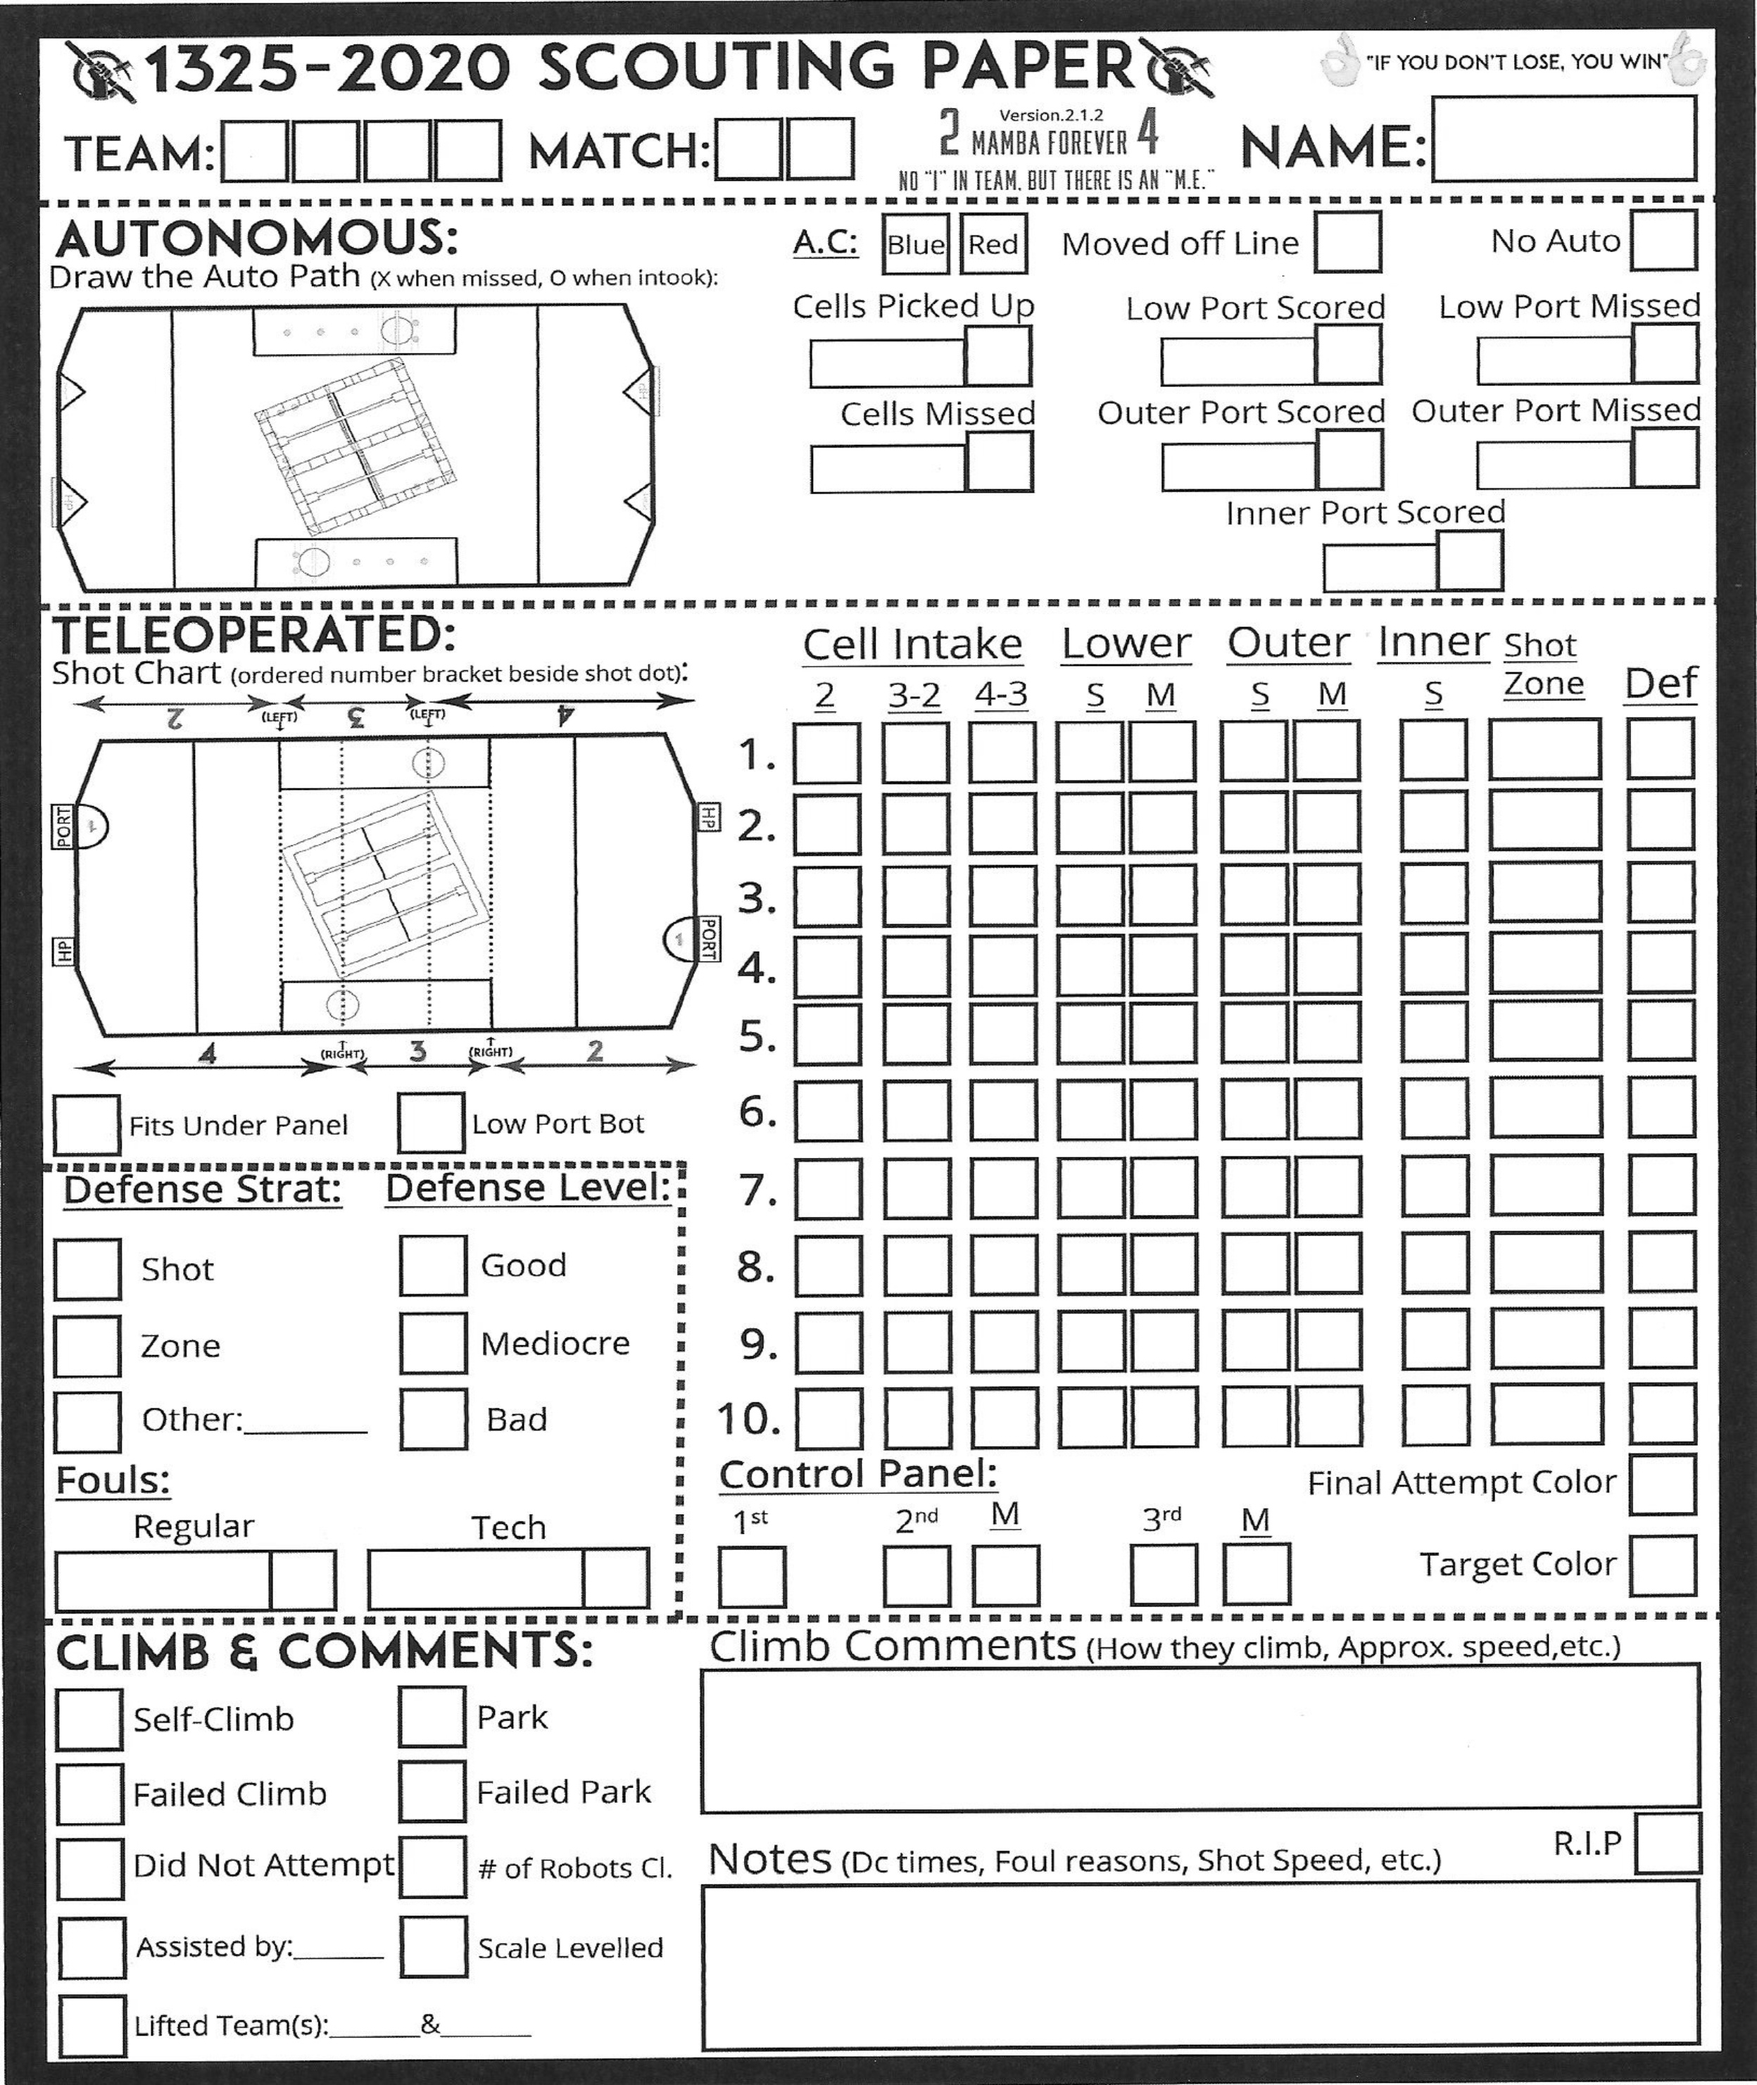
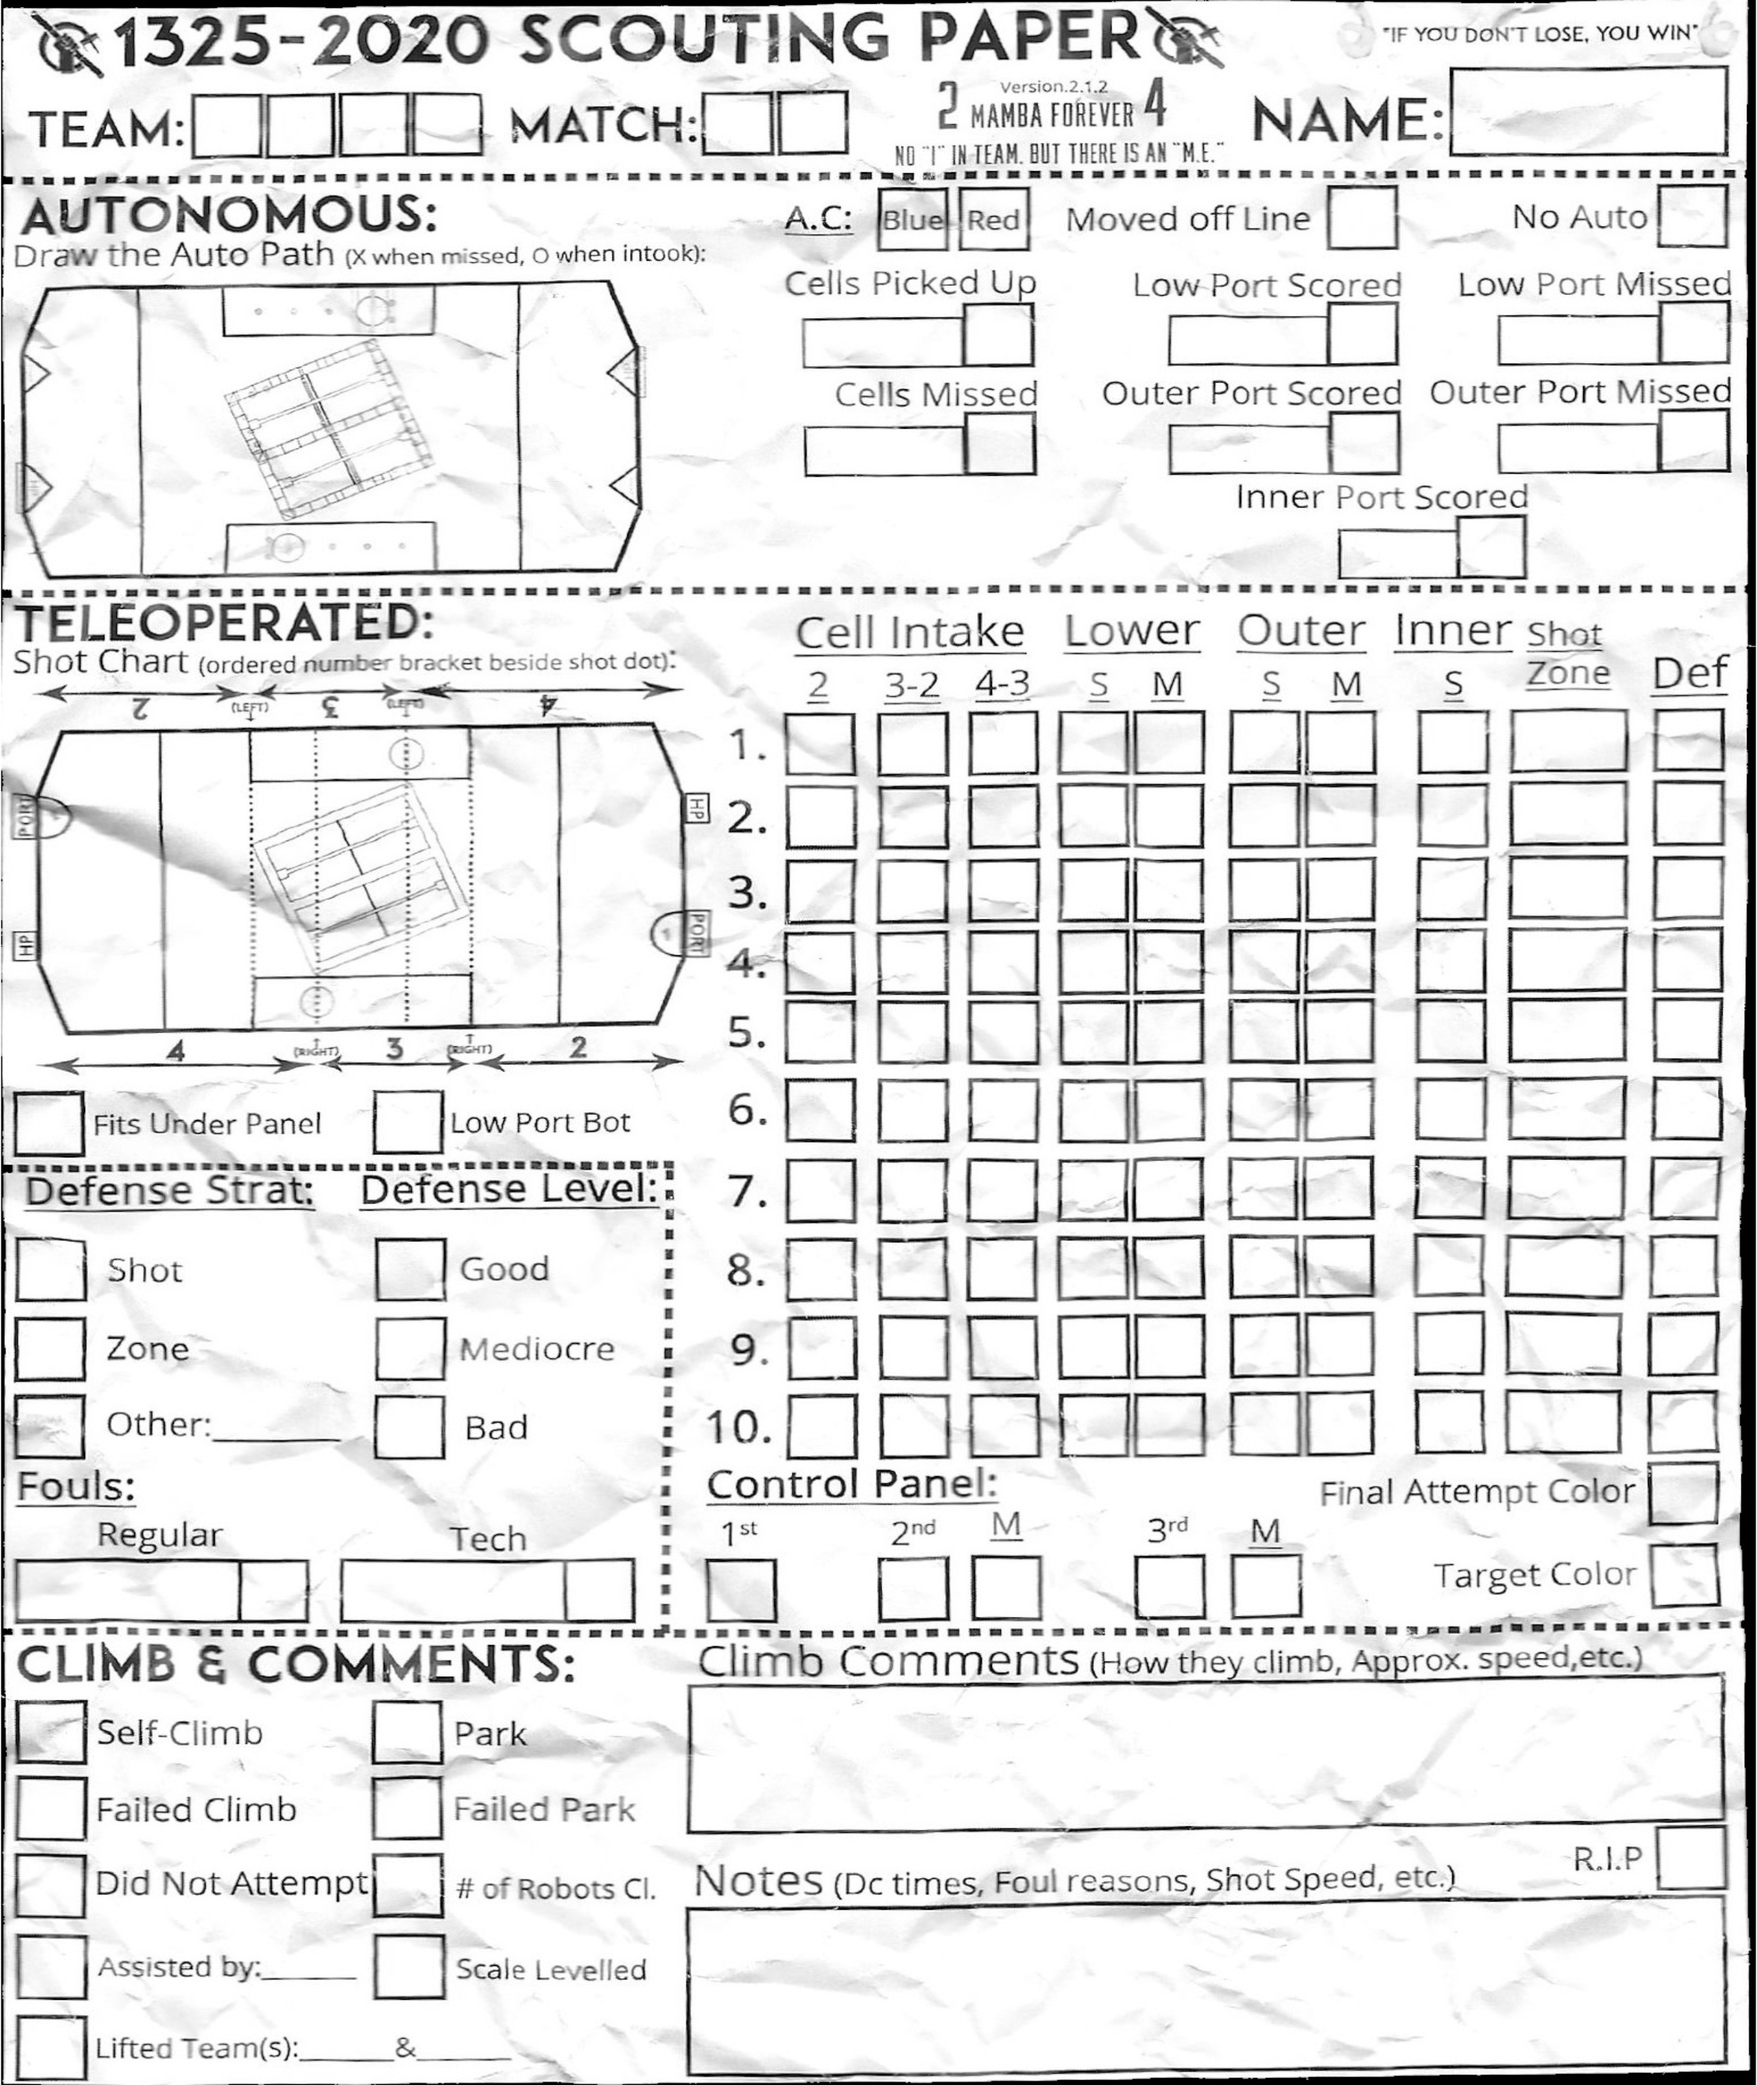
Added Flexible crop on sheet border

diff --git a/sheet/straighten.py b/sheet/straighten.py
@@ -4,6 +4,60 @@ import numpy as np
 import argparse
 import cv2
 
+def remove_border(image_name, dest_name):
+	img = cv2.imread(image_name)
+	h,w = img.shape[:2]
+	mask = np.zeros((h,w), np.uint8)
+
+	# Transform to gray colorspace and invert Otsu threshold the image
+	gray = cv2.cvtColor(img,cv2.COLOR_BGR2GRAY)
+	_, thresh = cv2.threshold(gray,0,255,cv2.THRESH_BINARY_INV+cv2.THRESH_OTSU)
+
+	# ***OPTIONAL FOR THIS IMAGE
+
+	### Perform opening (erosion followed by dilation)
+	kernel = np.ones((2,2),np.uint8)
+	opening = cv2.morphologyEx(thresh, cv2.MORPH_OPEN, kernel)
+
+	# ***
+
+	# Search for contours, select the biggest and draw it on the mask
+	contours, hierarchy = cv2.findContours(opening, # if you use opening then change "thresh" to "opening"
+	                                      cv2.RETR_TREE,cv2.CHAIN_APPROX_NONE)
+	cnt = max(contours, key=cv2.contourArea)
+	cv2.drawContours(mask, [cnt], 0, 255, -1)
+
+	# Perform a bitwise operation
+	res = cv2.bitwise_and(img, img, mask=mask)
+
+	########### The result is a ROI with some noise
+	########### Clearing the noise
+
+	# Create a new mask
+	mask = np.zeros((h,w), np.uint8)
+
+	# Transform the resulting image to gray colorspace and Otsu threshold the image
+	gray = cv2.cvtColor(res,cv2.COLOR_BGR2GRAY)
+	_, thresh = cv2.threshold(gray,0,255,cv2.THRESH_BINARY+cv2.THRESH_OTSU)
+
+	# Search for contours and select the biggest one again
+	contours, hierarchy = cv2.findContours(thresh,cv2.RETR_TREE,cv2.CHAIN_APPROX_NONE)
+	cnt = max(contours, key=cv2.contourArea)
+
+	# Draw it on the new mask and perform a bitwise operation again
+	cv2.drawContours(mask, [cnt], 0, 255, -1)
+	res = cv2.bitwise_and(img, img, mask=mask)
+
+	# If you will use pytesseract it is wise to make an aditional white border
+	# so that the letters arent on the borders
+	x,y,w,h = cv2.boundingRect(cnt)
+	cv2.rectangle(res,(x,y),(x+w,y+h),(255,255,255),1)
+
+	# Crop the result
+	final_image = res[y:y+h+1, x:x+w+1]
+	cv2.imwrite(dest_name, final_image)
+
+
 def deskew(input_file, output_file):
 	# construct the argument parse and parse the arguments
 

diff --git a/images.py b/images.py
@@ -1,4 +1,4 @@
-###WRITTEN BY: BILAL QADAR & ASHPAN RASKAR###
+### WRITTEN BY: BILAL QADAR & ASHPAN RASKAR ###
 import sys
 import os
 import time
@@ -27,7 +27,10 @@ def runBox(file_name):
         os.remove("./processing/temporary/"+file)
     for file in os.listdir(path='./processing/completed/'):
         os.remove("./processing/completed/"+file)
+
     straighten.deskew("./processing/staged/" + file_name, "./processing/temporary/deskewed_sheet.jpg")
+    straighten.remove_border("./processing/temporary/deskewed_sheet.jpg","./processing/temporary/removed_" + file_name)
+    straighten.deskew("./processing/temporary/removed_" + file_name, "./processing/temporary/deskewed_sheet.jpg")
     #os.remove("./processing/staged/" + file_name)
     sheet = cv2.imread("./processing/temporary/deskewed_sheet.jpg")
     sheet = cv2.resize(sheet, (2496,2962))
